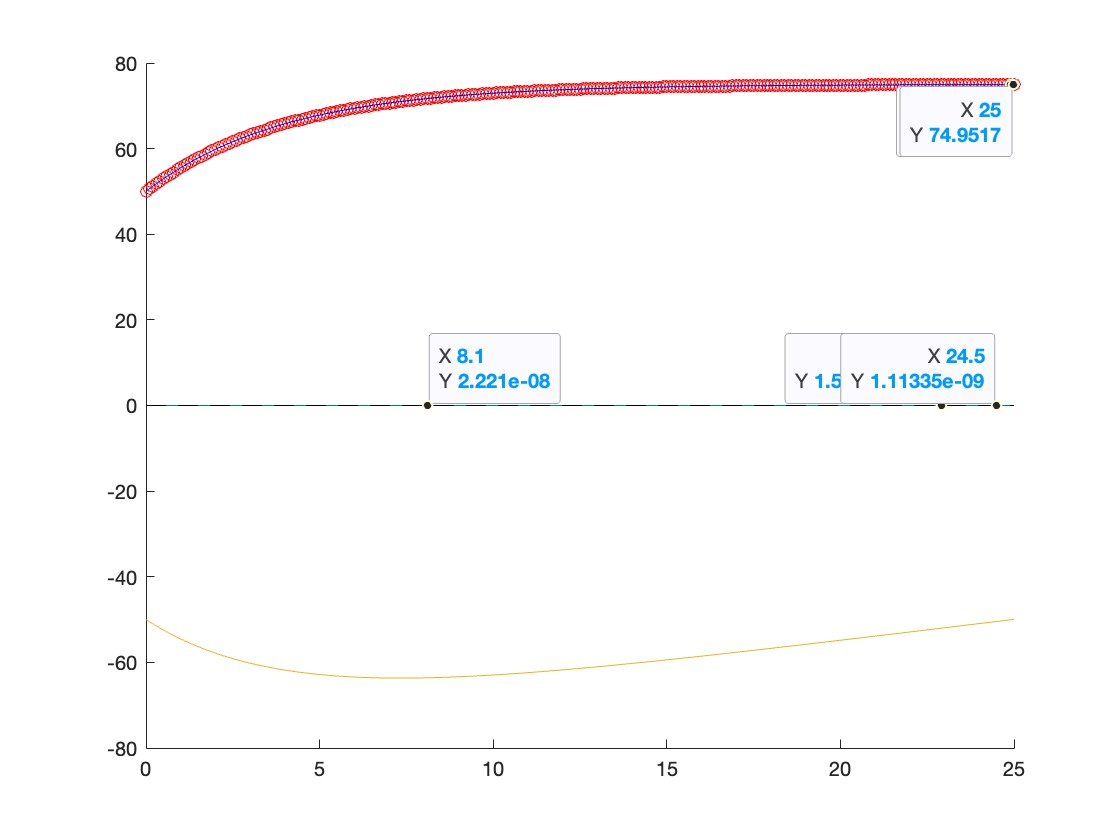
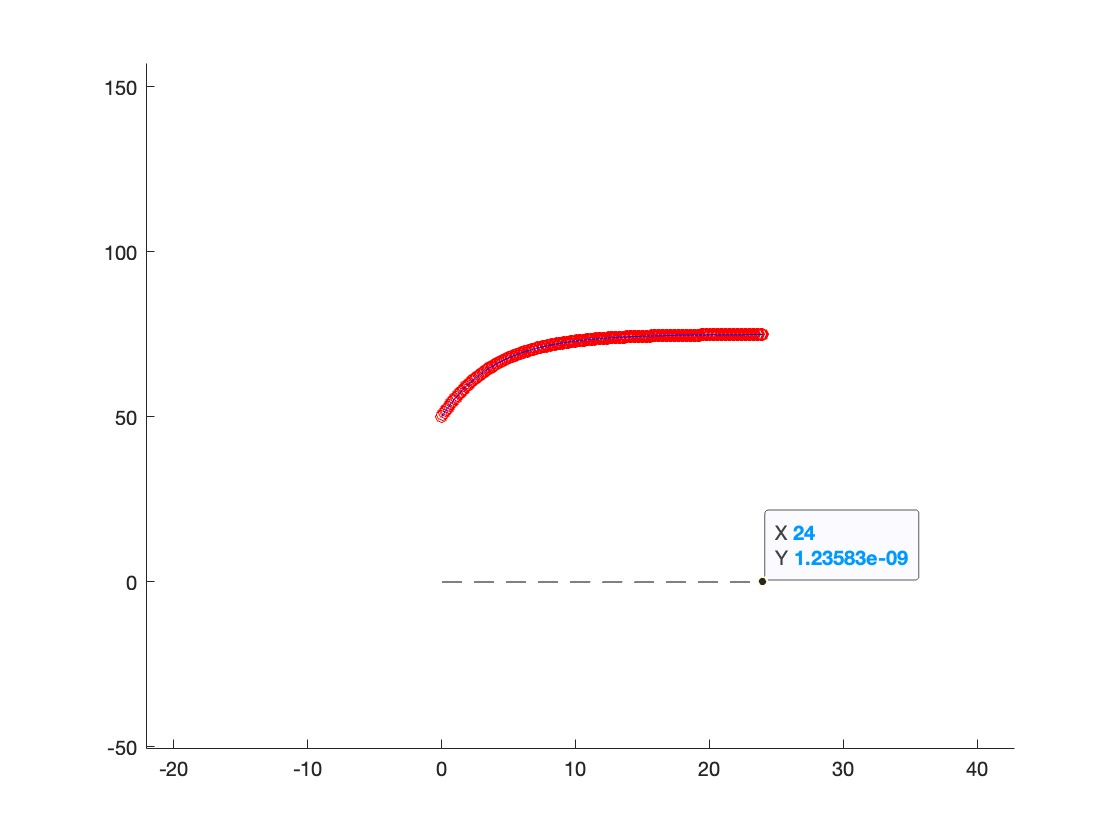
trying out ode 45 for next part

diff --git a/Proj 1/PartB.m b/Proj 1/PartB.m
@@ -1,16 +1,12 @@
 addpath('/Users/addi/Documents/MATLAB/APPM-2360/Proj 1');
 
+
 ti = 0;
 tf = 24;
 npts = 240;
 y0 = 50;
 
-%functions
-f = @(t,T) 0.25*(75 - T);
 
-g = @(t) 75 - 25*exp(-0.25*t);
-
-u = g(t);
 
 %rkr call
 [t,w] = rk4(ti,tf,npts,y0,f);
@@ -22,6 +18,13 @@ u = g(t);
 % 25 = C
 
 
+%functions
+f = @(t,T) 0.25*(75 - T);
+
+g = @(t) 75 - 25*exp(-0.25*t);
+
+u = g(t);
+
 %on the interval [0, 24] using 240 points (stepsize h = 0.1). 
 % Note that this is the same initial value problem as in Task Set A part 4(e).
 
@@ -29,7 +32,7 @@ hold on;
 plot (t,w, "r o")
 plot (t,g(t), "b-")
 
-plot (t,(u-w),"k--")
+plot (t,(g(t)-w),"k--")
 hold off
 
 

diff --git a/Proj 1/PartC.m b/Proj 1/PartC.m
@@ -3,7 +3,18 @@ ti = 0;
 tf = 24;
 npts = 240;
 y0 = 50;
+f = @(t,T) 0.25*(75 - T);
+
+[t,w] = rk4(ti,tf,npts,y0,f);
 
 %functions
-f = @(t,T) 0.25*(75 - T);
 g = @(t) 75 - 25*exp(-0.25*t);
+u = g(t);
+dydt= @(t,y) 0.25*(75 - 12*cos(pi*(t-5)/12)-y);
+
+[i,y]= ode45 (dydt,0:24,50);
+
+hold on
+plot (t,w)
+plot(i,y,"r")
+
